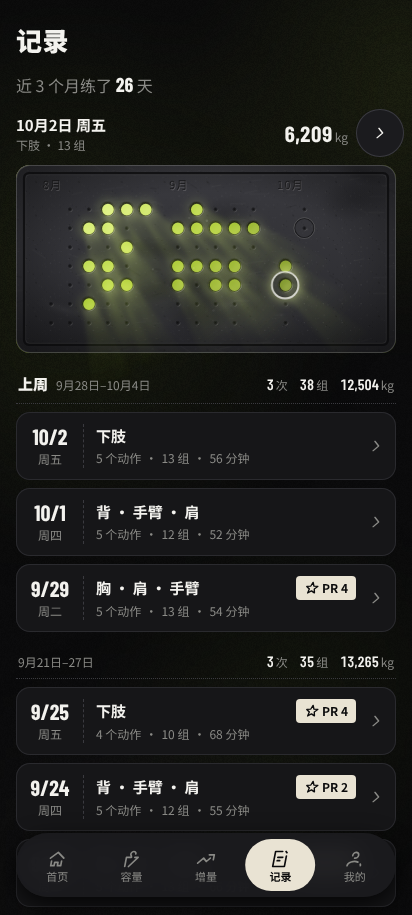
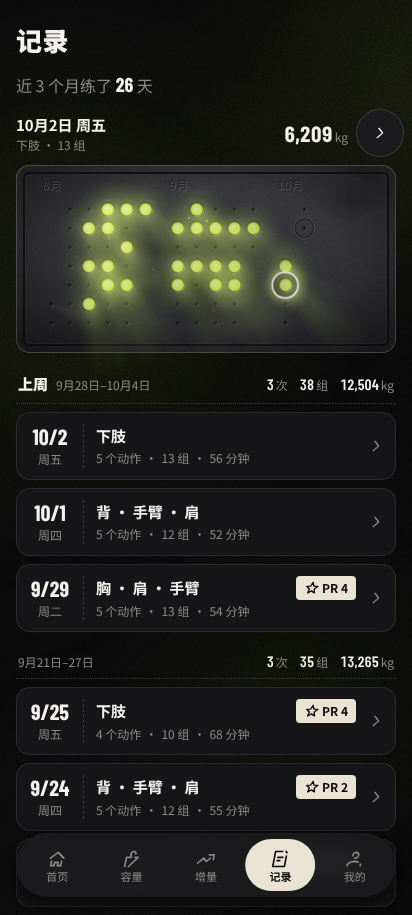
钢板透光改柔、加泛光（用户：透光的光效可以不那么实，也有一点泛光的感觉）
- 孔里不再是平涂的一块绿：灯箱底光压暗，每个孔垫一团中心偏向光源最亮、往孔边渐暗成深绿的光
- 孔口往外漫出一大圈柔光压在钢面上（离光越近越大越亮），光束与泛光整体糊得更软；孔壁暗圈减淡
- 门禁：「光源固定、滚动后光影变化」改为量光束转平（落到板下面的光变少），孔心已接近白热不再适合比亮度

Claude-Session: https://claude.ai/code/session_01KYTBdWwxwLpbJX5vYAqTdK

Changed region(s): [[0.1748, 0.1836, 0.6408, 0.3366], [0.6408, 0.2754, 0.7282, 0.3366]]

diff --git a/src/components/plate.tsx b/src/components/plate.tsx
@@ -116,22 +116,33 @@ export function SteelPlate({ months, label = '近 3 个月训练', selected, onS
       b.fillStyle = tint(pal.deep, 1); b.fillRect(0, 0, W, H);
       // 渐变的半径按「光源到板最远角」算：近处的孔接近白热，远处的孔只剩暗绿底光
       const R = Math.hypot(W - lx, H - ly), gr = b.createRadialGradient(lx, ly, 0, lx, ly, R);
-      gr.addColorStop(0, tint(pal.dust, 1)); gr.addColorStop(0.32, tint(pal.hot, 1)); gr.addColorStop(0.55, tint(pal.lime, 0.7)); gr.addColorStop(0.8, tint(pal.lime, 0.28)); gr.addColorStop(1, tint(pal.lime, 0.1));
+      // 灯箱底光压暗一些（孔里不是一块实心的绿）；每个孔再垫一团中心亮、边缘暗的光——透过来的光像一团雾，不是一块色片（用户 2026-10-06：不要那么实，要有泛光）
+      gr.addColorStop(0, tint(pal.hot, 0.8)); gr.addColorStop(0.35, tint(pal.lime, 0.62)); gr.addColorStop(0.6, tint(pal.lime, 0.36)); gr.addColorStop(0.85, tint(pal.lime, 0.16)); gr.addColorStop(1, tint(pal.lime, 0.07));
       b.fillStyle = gr; b.fillRect(0, 0, W, H);
+      const dmaxB = Math.hypot(W - lx, H - ly) * 1.05;
+      for (const p of g.holes) {
+        const x = p.x * k, y = p.y * k, rr = r * k, near = Math.max(0, 1 - Math.hypot(x - lx, y - ly) / dmaxB), I = 0.4 + 0.6 * near ** 1.3;
+        // 孔里：中心偏向光源的一侧最亮，往孔边渐暗成深绿——像一团透过来的光，不是一块平涂的色片
+        const hg = b.createRadialGradient(x - rr * 0.2, y - rr * 0.2, 0, x, y, rr * 1.05);
+        hg.addColorStop(0, tint(pal.dust, 0.85 * I)); hg.addColorStop(0.4, tint(pal.hot, 0.75 * I)); hg.addColorStop(0.8, tint(pal.lime, 0.45)); hg.addColorStop(1, tint(pal.deep, 0.85));
+        b.fillStyle = hg; b.fillRect(x - rr * 1.1, y - rr * 1.1, rr * 2.2, rr * 2.2);
+      }
       // 板前光束：每个孔沿「离开光源」的方向射出一束锥形光，叠加发光（重叠处更亮）
       const c = beams.getContext('2d')!; c.setTransform(dpr, 0, 0, dpr, 0, 0); c.clearRect(0, 0, W, H * (1 + BEAM_SPILL));
-      c.globalCompositeOperation = 'lighter'; c.filter = `blur(${(r * k * 0.35).toFixed(2)}px)`;
+      c.globalCompositeOperation = 'lighter'; c.filter = `blur(${(r * k * 0.6).toFixed(2)}px)`;  // 糊一点：光束和泛光是雾，不是硬边的形
       const dmax = Math.hypot(W - lx, H - ly) * 1.05;
       for (const p of g.holes) {
         const x = p.x * k, y = p.y * k, rr = r * k, dx = x - lx, dy = y - ly, d = Math.hypot(dx, dy) || 1, ux = dx / d, uy = dy / d, nx = -uy, ny = ux;
-        const near = Math.max(0, 1 - d / dmax), on = sel && sel.t === p.t ? 1.7 : 1, I = (0.12 + 0.88 * near ** 1.8) * on;
+        const near = Math.max(0, 1 - d / dmax), on = sel && sel.t === p.t ? 1.6 : 1, I = (0.3 + 0.7 * near ** 1.5) * on;
         const len = pitch * k * (3.2 + 3 * near) * (on > 1 ? 1.25 : 1), w0 = rr * 0.85, w1 = rr * (2.6 + 1.2 * near);
         const ex = x + ux * len, ey = y + uy * len, lg = c.createLinearGradient(x, y, ex, ey);
-        lg.addColorStop(0, tint(pal.hot, 0.46 * I)); lg.addColorStop(0.35, tint(pal.lime, 0.17 * I)); lg.addColorStop(1, tint(pal.lime, 0));
+        lg.addColorStop(0, tint(pal.hot, 0.36 * I)); lg.addColorStop(0.3, tint(pal.lime, 0.14 * I)); lg.addColorStop(1, tint(pal.lime, 0));
         c.fillStyle = lg; c.beginPath();
         c.moveTo(x + nx * w0, y + ny * w0); c.lineTo(ex + nx * w1, ey + ny * w1); c.lineTo(ex - nx * w1, ey - ny * w1); c.lineTo(x - nx * w0, y - ny * w0); c.closePath(); c.fill();
-        const bl = c.createRadialGradient(x, y, rr * 0.6, x, y, rr * 2.4); bl.addColorStop(0, tint(pal.hot, 0.3 * I)); bl.addColorStop(1, tint(pal.lime, 0));
-        c.fillStyle = bl; c.fillRect(x - rr * 2.4, y - rr * 2.4, rr * 4.8, rr * 4.8);
+        // 泛光：孔口往外漫出一大圈柔光，压在钢面上（离光越近越大越亮）
+        const R2 = rr * (3.2 + 1.8 * near), bl = c.createRadialGradient(x, y, rr * 0.5, x, y, R2);
+        bl.addColorStop(0, tint(pal.hot, 0.5 * I)); bl.addColorStop(0.3, tint(pal.lime, 0.2 * I)); bl.addColorStop(1, tint(pal.lime, 0));
+        c.fillStyle = bl; c.fillRect(x - R2, y - R2, R2 * 2, R2 * 2);
       }
       c.filter = 'none'; c.globalCompositeOperation = 'source-over';
     };
@@ -232,7 +243,7 @@ export function SteelPlate({ months, label = '近 3 个月训练', selected, onS
             <pattern id={u('grain')} width="37" height="29" patternUnits="userSpaceOnUse">{GRAIN.map((p, i) => <circle key={i} cx={p.cx} cy={p.cy} r={p.r} style={{ fill: p.fill }} />)}</pattern>
             {/* 孔：暗壁（露出的亮窗向右下偏一点，左上的壁厚、右下的薄，孔有厚度）+ 右下的碎亮边 + 凹痕 */}
             <g id={u('hole')}>
-              <path fillRule="evenodd" d={`${circ(0, 0, r)} ${circ(0.04 * r, 0.05 * r, 0.86 * r)}`} style={{ fill: lo(90) }} />
+              <path fillRule="evenodd" d={`${circ(0, 0, r)} ${circ(0.04 * r, 0.05 * r, 0.86 * r)}`} style={{ fill: lo(55) }} />
               <circle r={f2(r + 0.4)} fill="none" stroke={ref('rim')} strokeWidth={0.7} />
               <circle r={f2(r * 1.28)} fill={ref('dish')} />
             </g>

diff --git a/scripts/shoot_6a.py b/scripts/shoot_6a.py
@@ -403,9 +403,10 @@ def log_checks(b, w, h):
     left = [bb for x, bb in s0 if x < 0.4]; right = [bb for x, bb in s0 if x > 0.6]
     ok(left and right and sum(left) / len(left) > sum(right) / len(right) + 4, f'{tag} 记录·钢板：离光源近的（左边）孔更亮（左 {sum(left) / max(1, len(left)):.0f} / 右 {sum(right) / max(1, len(right)):.0f}）')
     ok(min(bb for _, bb in s0) > 12, f'{tag} 记录·钢板：最远的孔也有底光，不是黑洞（{min(bb for _, bb in s0):.0f}）')
-    pg.evaluate('document.querySelector("[class*=_scroll_]").scrollTo(0, 260)'); pg.wait_for_timeout(500)
-    s1 = hole_lums(pg)
-    ok(max(abs(a[1] - c[1]) for a, c in zip(s0, s1)) > 6, f'{tag} 记录·钢板：光源固定、板滚上去后孔的亮暗跟着变（最大变化 {max(abs(a[1] - c[1]) for a, c in zip(s0, s1)):.0f}）')
+    cen = """() => { const c = document.querySelector('[data-plate] canvas[class*=_beams_]'); const d = c.getContext('2d').getImageData(0, 0, c.width, c.height).data; let lo = 0, s = 0;
+      for (let y = 0; y < c.height; y += 2) for (let x = 0; x < c.width; x += 2) { const a = d[(y * c.width + x) * 4 + 3]; s += a; if (y > c.height * 0.62) lo += a; } return [lo / s, 0]; }"""
+    c0 = pg.evaluate(cen); pg.evaluate('document.querySelector("[class*=_scroll_]").scrollTo(0, 400)'); pg.wait_for_timeout(600); c1 = pg.evaluate(cen)
+    ok(c0[0] - c1[0] > 0.004, f'{tag} 记录·钢板：光源固定、板滚上去后光束转平，落到板下面的光变少（{c0[0]:.3f} → {c1[0]:.3f}）')
     beam = pg.evaluate("""() => { const c = document.querySelector('[data-plate] canvas[class*=_beams_]'); if (!c) return null; const d = c.getContext('2d').getImageData(0, 0, c.width, c.height).data; let n = 0; for (let i = 3; i < d.length; i += 16) if (d[i] > 12) n++; return n / (d.length / 16); }""")
     ok(beam is not None and beam > 0.08, f'{tag} 记录·钢板：孔前有光束（光束画布 {0 if beam is None else beam * 100:.0f}% 有光）')
     snap = "() => { const c = document.querySelector('[data-plate] canvas[class*=_beams_]'); const d = c.getContext('2d').getImageData(0, 0, c.width, c.height).data; let h = 0; for (let i = 0; i < d.length; i += 97) h = (h * 31 + d[i]) | 0; return h; }"
